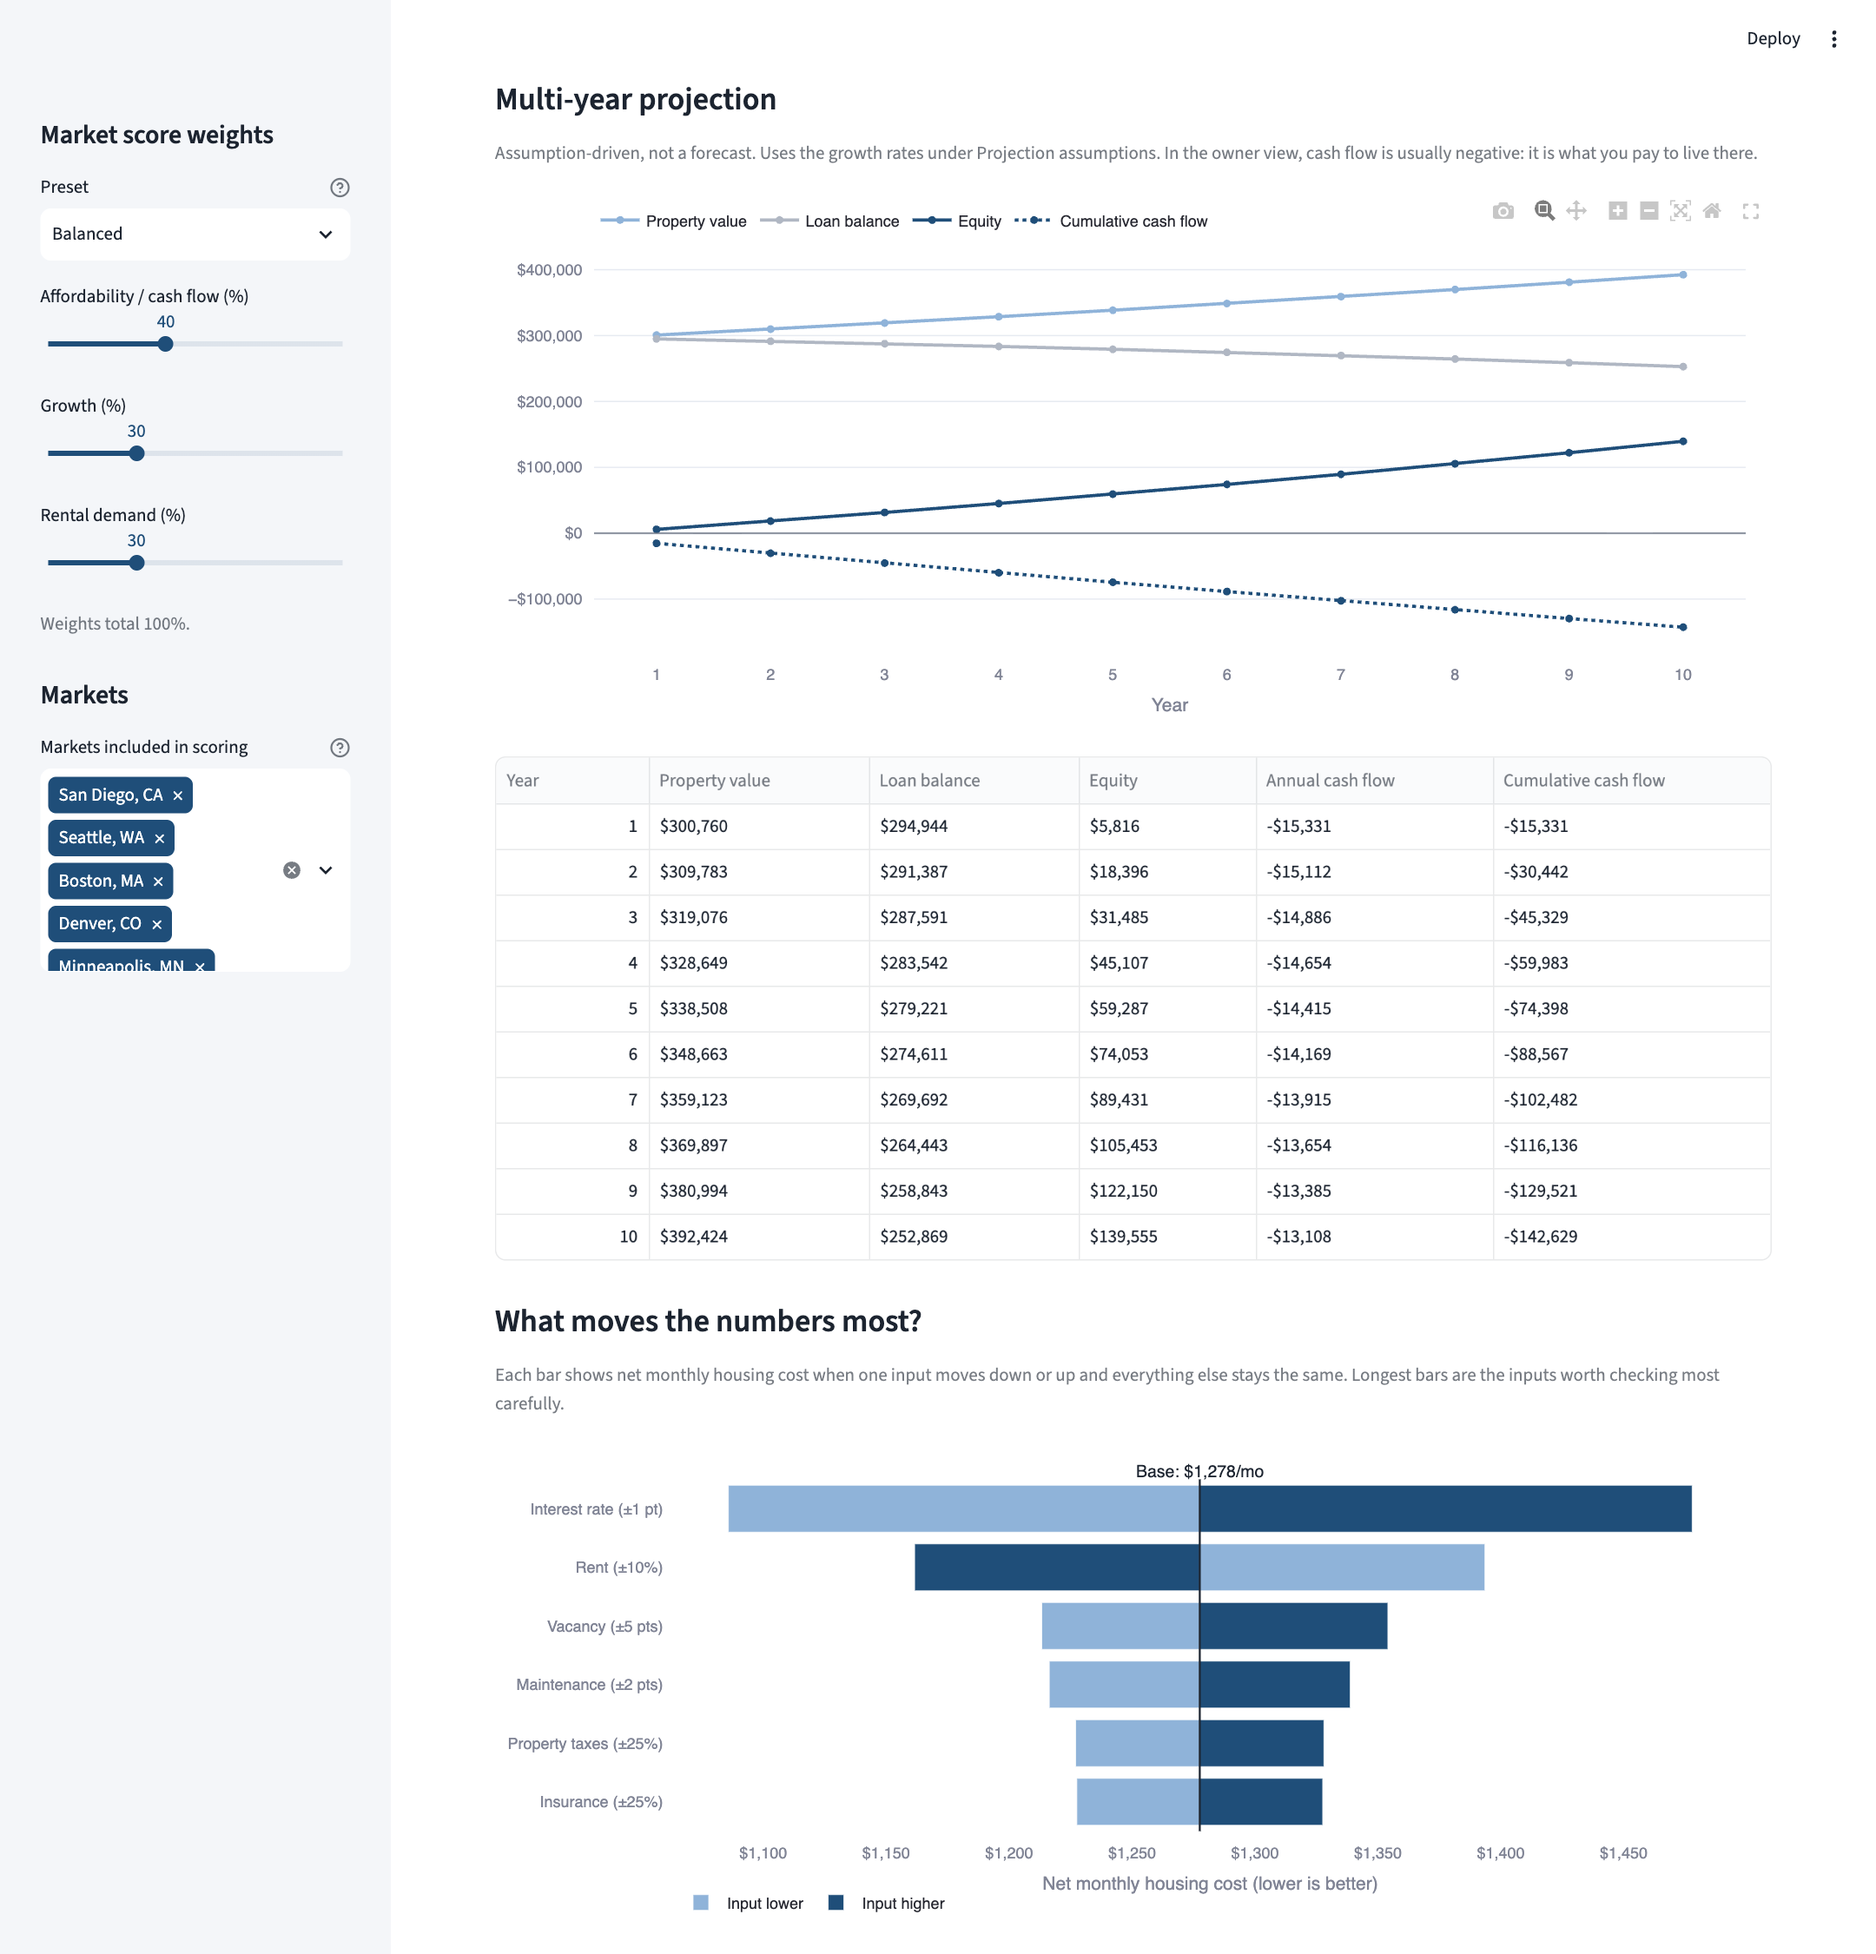
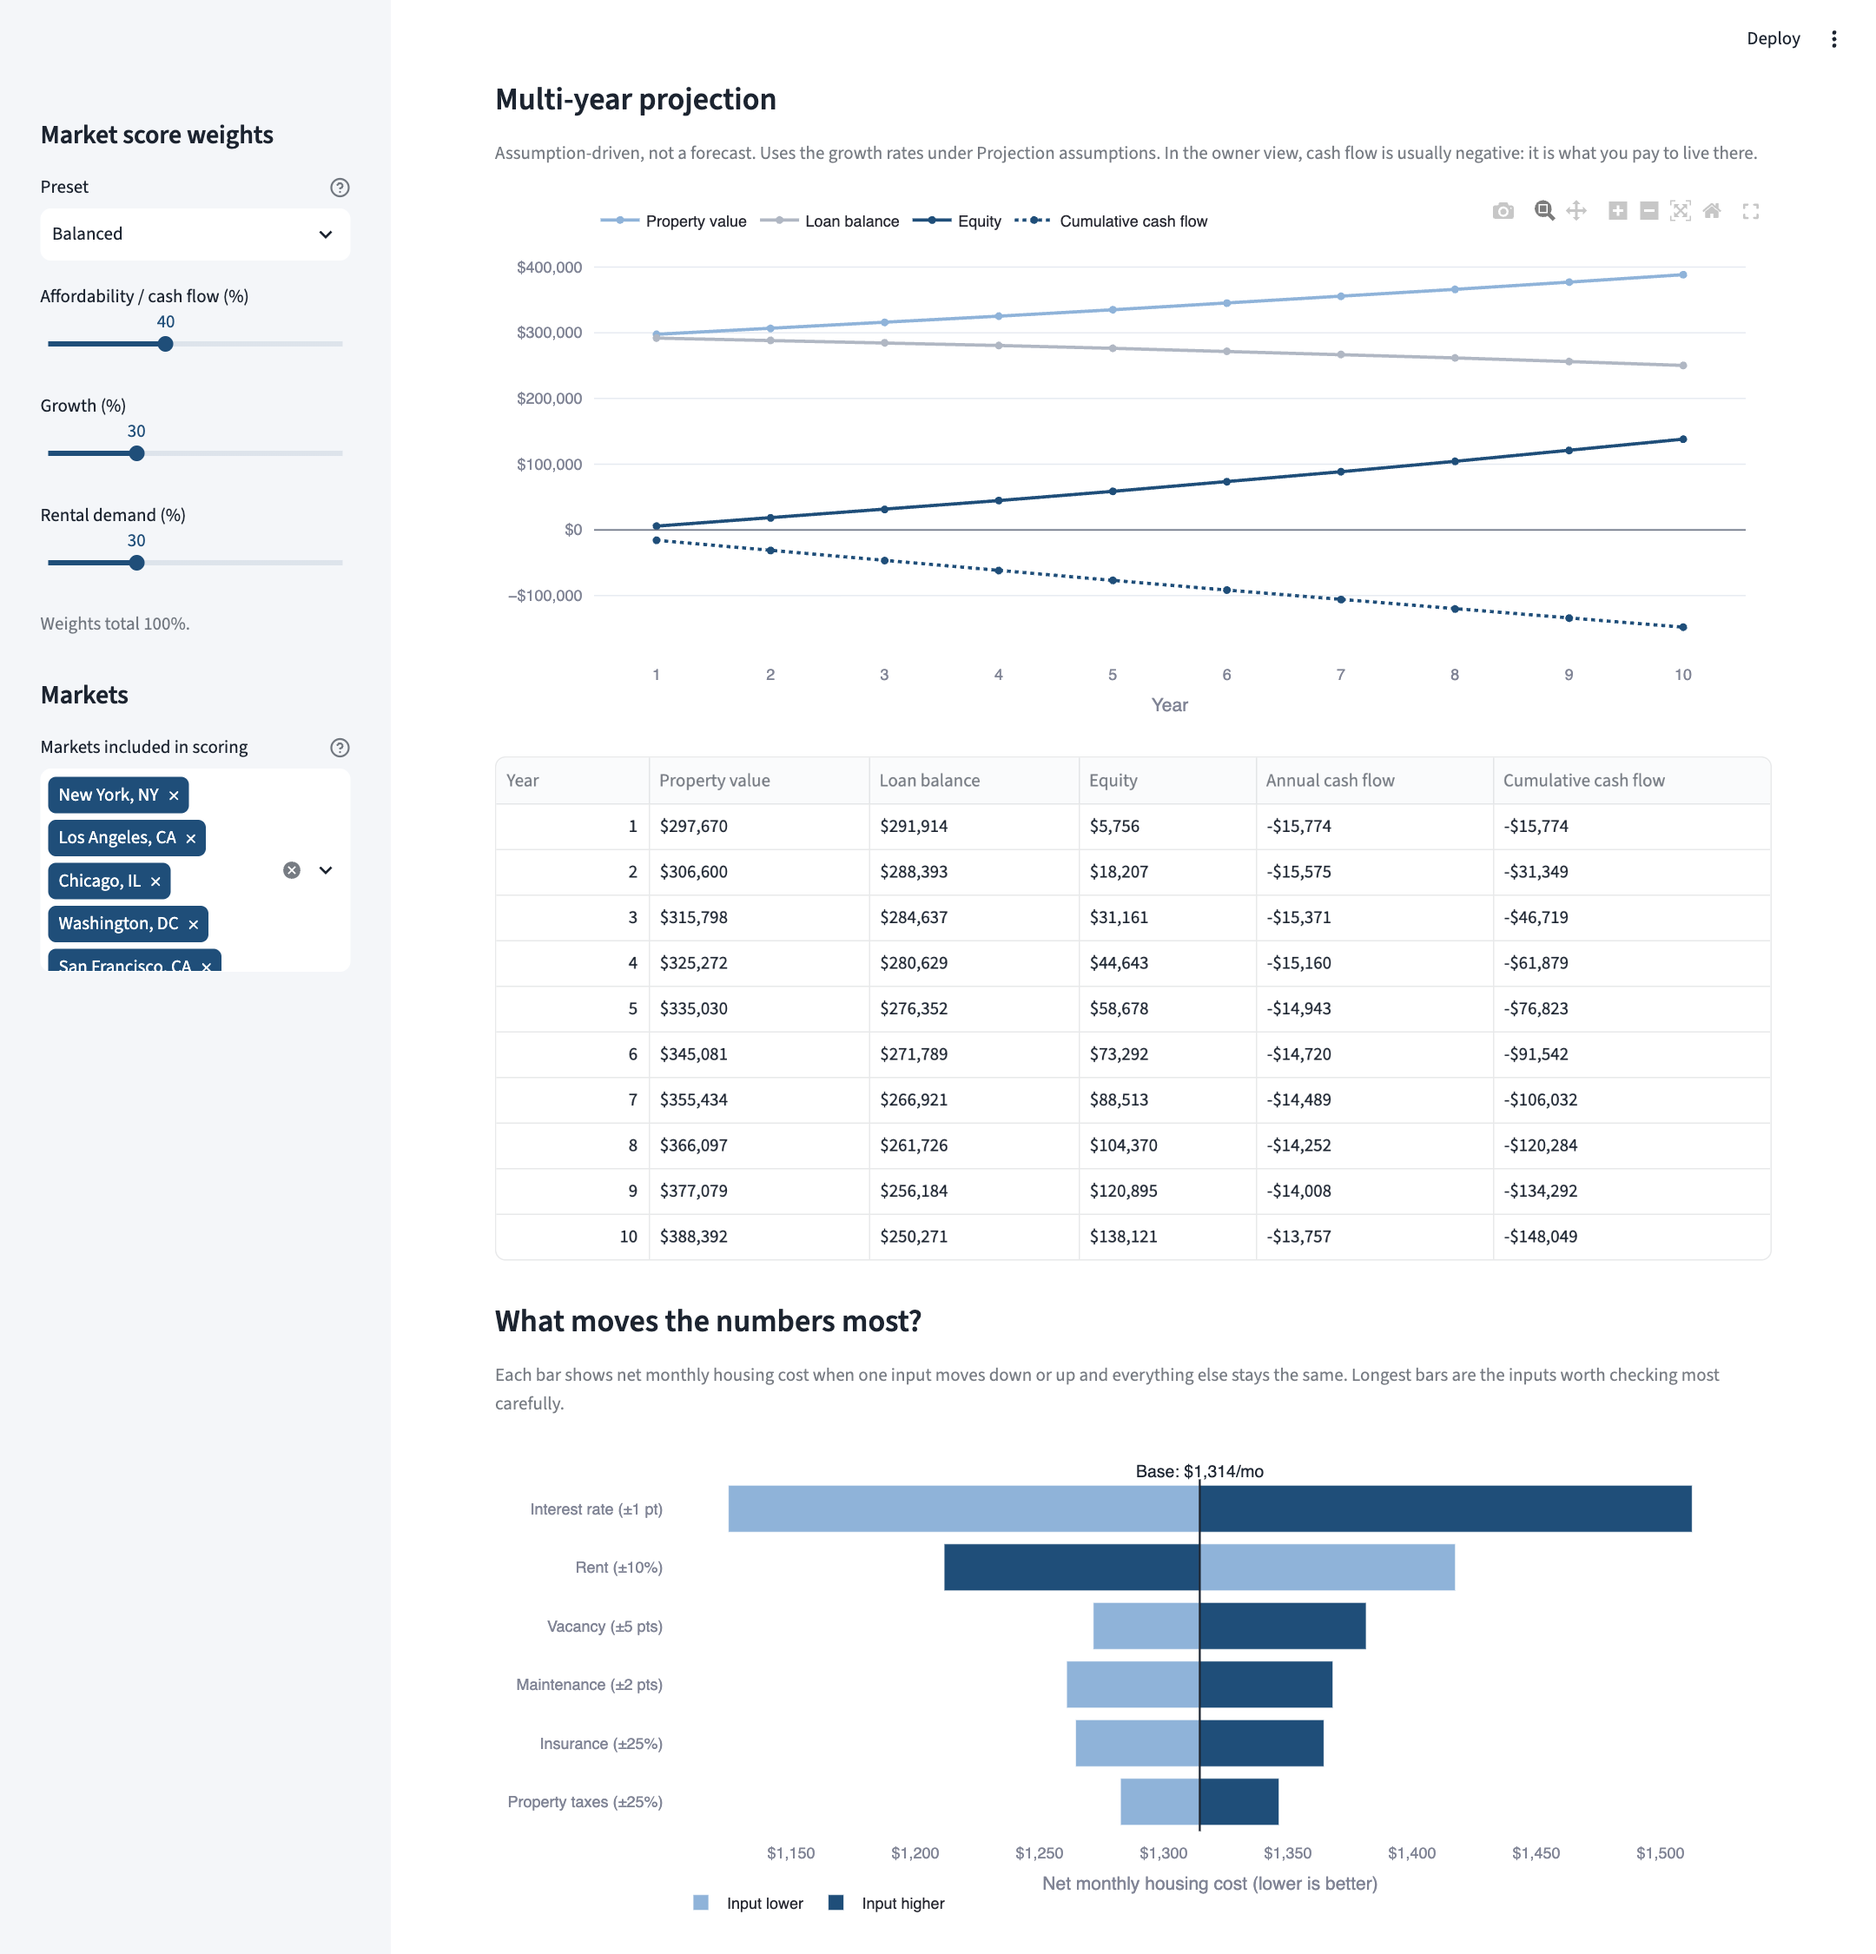
Expand to 32 metros: add military markets and large high-cost metros

diff --git a/config.py b/config.py
@@ -4,10 +4,26 @@ All percentages are stored as decimals (0.07 means 7%).
 """
 
 # --- Markets and data sources ---------------------------------------------------
-# 20 metros picked for a mix of price levels and regions. `zillow_name` must match
-# Zillow's RegionName; `cbsa_code` is the Census metro code (2023 definitions).
-# `cbsa_code_base_year` is only set when the code was different in the base year.
+# 32 metros: a core set chosen for a mix of price levels and regions, plus military-heavy
+# markets (VA borrowers often buy near a base) and the largest high-cost metros for contrast.
+# `zillow_name` must match Zillow's RegionName; `cbsa_code` is the Census metro code
+# (2023 definitions). `cbsa_code_base_year` is only set when the code was different in the base year.
 METROS = [
+    # Large high-cost metros
+    {"zillow_name": "New York, NY", "cbsa_code": 35620},
+    {"zillow_name": "Los Angeles, CA", "cbsa_code": 31080},
+    {"zillow_name": "Chicago, IL", "cbsa_code": 16980},
+    {"zillow_name": "Washington, DC", "cbsa_code": 47900},
+    {"zillow_name": "San Francisco, CA", "cbsa_code": 41860},
+    {"zillow_name": "Miami, FL", "cbsa_code": 33100},
+    # Military-heavy markets
+    {"zillow_name": "Virginia Beach, VA", "cbsa_code": 47260},  # Naval Station Norfolk
+    {"zillow_name": "Colorado Springs, CO", "cbsa_code": 17820},  # Fort Carson, Peterson SFB
+    {"zillow_name": "Jacksonville, FL", "cbsa_code": 27260},  # NAS Jacksonville, Mayport
+    {"zillow_name": "Fayetteville, NC", "cbsa_code": 22180},  # Fort Bragg
+    {"zillow_name": "Killeen, TX", "cbsa_code": 28660},  # Fort Hood
+    {"zillow_name": "Clarksville, TN", "cbsa_code": 17300},  # Fort Campbell
+    # Core set: mix of price levels and regions
     {"zillow_name": "San Diego, CA", "cbsa_code": 41740},
     {"zillow_name": "Seattle, WA", "cbsa_code": 42660},
     {"zillow_name": "Boston, MA", "cbsa_code": 14460},

diff --git a/src/ui/methodology.py b/src/ui/methodology.py
@@ -143,8 +143,9 @@ def _limitations() -> None:
         "within a metro.\n"
         "- **Data years differ:** Zillow is monthly and current; Census ACS lags by about a year. ACS 1-year "
         "estimates also have margins of error that the scores don't show.\n"
-        "- **Boundary changes:** Census metro definitions changed in 2023. Cleveland's 2019 income uses the "
-        "older Cleveland-Elyria definition.\n"
+        "- **Boundary changes:** Census metro definitions changed in 2023, so income growth (2019 to 2024) "
+        "compares slightly different areas for a few metros, such as New York and Chicago. Cleveland's 2019 "
+        "income uses the older Cleveland-Elyria definition.\n"
         "- **Lender qualification isn't modeled.** Lenders often count only part of projected rent (commonly "
         "around 75%) toward qualifying income, and owner-occupied VA loans are underwritten on debt-to-income "
         "ratio and residual income, not DSCR.\n"

diff --git a/README.md b/README.md
@@ -14,7 +14,7 @@ demand for a multifamily owner-occupant, and does a specific property make finan
 
 | Tab | What you can do |
 |---|---|
-| **Market Rankings** | Rank 20 metros on a 0–100 score. Adjust the weights of three pillars (affordability, growth, rental demand) or pick a preset, and see how each market's rank changes across presets. |
+| **Market Rankings** | Rank 32 metros on a 0–100 score. Adjust the weights of three pillars (affordability, growth, rental demand) or pick a preset, and see how each market's rank changes across presets. |
 | **Market Comparison** | Compare 2–5 metros side by side: a metric table, home price vs. rent, growth vs. affordability, and pillar scores. |
 | **Property Calculator** | Evaluate one property two ways: as an investor (all units rented) and as an owner living in one unit (house hack). Includes VA funding fee handling, itemized cash needed at purchase, a 5–10 year projection, a sensitivity (tornado) chart, and an optional short-term rental scenario. |
 | **Methodology** | Every formula, the scoring method, data sources and years, assumptions and limitations. |
@@ -27,22 +27,41 @@ demand for a multifamily owner-occupant, and does a specific property make finan
 ## What the current data shows
 
 Data: Zillow through September 2026, Census ACS 2024, Census population estimates through July 2025.
-Scores are relative to these 20 metros.
+Scores are relative to these 32 metros.
 
-- **Indianapolis ranks #1 under all three weight presets** (composite score 74 under Balanced
-  weights), with low rental vacancy, solid rent growth and a below-average property tax rate.
-- **Weights matter for some markets.** Memphis ranks #4 when weighting cash flow and #15 when
-  weighting growth: it has a high rent-to-price ratio but a shrinking population. Pittsburgh shows
-  the same pattern (#3 vs. #13).
-- **No large metro meets the "1% rule"** at typical prices. Monthly rent-to-price ranges from
-  0.31% (Seattle) to 0.64% (Pittsburgh), which is why house hacking (living in one unit) is often
-  what makes the numbers work.
-- **Example property:** with the calculator's default assumptions (Indianapolis typical value of
-  $292,000, a duplex, 0% down VA loan, 6.5% placeholder rate), the owner's net housing cost is
-  about $1,278/month vs. $1,530 to rent a similar unit, and about $8,800 of cash is still needed
-  at purchase.
+- **The top three are the same under all three weight presets:** Clarksville, TN (composite score
+  74 under Balanced weights), Indianapolis and Fayetteville, NC. Two of the three are military
+  markets. Clarksville (Fort Campbell) has the lowest rental vacancy of the 32 (3.2%), a low
+  property tax rate and steady population growth.
+- **Weights matter for some markets.** Memphis ranks #5 when weighting cash flow and #25 when
+  weighting growth: it has the best affordability score but a shrinking population. Pittsburgh shows
+  the same pattern (#6 vs. #21), and New York moves the other way (#28 vs. #15).
+- **No metro in the set meets the "1% rule"** at typical prices. Monthly rent-to-price ranges from
+  0.31% (San Francisco) to 0.64% (Pittsburgh), which is why house hacking (living in one unit) is
+  often what makes the numbers work.
+- **The comparison set changes the answer.** With the original 20 metros, Indianapolis ranked #1;
+  adding military and large high-cost metros moved Clarksville ahead. Scores are relative by design.
+- **Example property:** with the calculator's default assumptions (Clarksville typical value of
+  $289,000, a duplex, 0% down VA loan, 6.5% placeholder rate), the owner's net housing cost is
+  about $1,314/month vs. $1,340 to rent a similar unit, and about $8,700 of cash is still needed
+  at purchase. As a pure rental (all units rented), it roughly breaks even (about -$17/month).
 
 These are screening results, not recommendations. See [Limitations](#limitations).
+
+## Which metros and why
+
+32 metros (Census metropolitan statistical areas) in three groups:
+
+- **Core set (20):** a mix of price levels and regions, from San Diego and Boston to Pittsburgh and
+  Memphis, so the cash flow vs. appreciation trade-off is visible.
+- **Military markets (6):** Virginia Beach, Colorado Springs, Jacksonville, Fayetteville (NC),
+  Killeen and Clarksville. VA borrowers often buy near a base. San Diego and San Antonio, in the
+  core set, are also major military markets.
+- **Large high-cost metros (6):** New York, Los Angeles, Chicago, Washington DC, San Francisco and
+  Miami, for contrast.
+
+The list lives in [`config.py`](config.py). Adding a metro takes its Zillow name and Census code,
+then a rerun of the pipeline. Because scores are relative, changing the list changes the scores.
 
 ## Methodology in brief
 
@@ -56,7 +75,7 @@ the composite is a weighted sum of the pillars.
 | Growth | 30% | 5-yr home price growth, 5-yr population growth, 5-yr income growth |
 | Rental demand | 30% | Rental vacancy rate, 3-yr rent growth |
 
-Percentile ranks are used instead of min-max scaling because, with only 20 markets, one outlier
+Percentile ranks are used instead of min-max scaling because, with a few dozen markets, one outlier
 would squash everyone else's min-max scores. An 80 simply means "beats 80% of the comparison set."
 The trade-off is that scores are relative, not absolute. Presets: Cash-flow focused (60/20/20),
 Balanced (40/30/30), Growth focused (20/50/30).

diff --git a/data/data_dictionary.md b/data/data_dictionary.md
@@ -51,7 +51,10 @@ data are joined on `cbsa_code` using the metro list in `config.py`.
   tax rate rather than measuring it directly.
 - **Income growth base year.** The 2020 ACS 1-year release was not published in standard form
   (pandemic data-collection problems), so income growth compares 2019 with 2024.
-- **Boundary change.** Census metro definitions changed in 2023. Cleveland's 2024 code is 17410;
+- **Boundary changes.** Census metro definitions changed in 2023. Most metros kept their code but some
+  changed shape (for example, New York no longer includes its Pennsylvania counties and Chicago no
+  longer includes its Wisconsin county), so 2019-to-2024 income growth compares slightly different
+  areas for a few metros. Cleveland's code itself changed: its 2024 code is 17410;
   its 2019 income comes from the older Cleveland-Elyria metro (17460). See `cbsa_code_base_year`
   in `config.py`.
 - **Sampling error.** ACS 1-year estimates have margins of error that are not shown or used.
